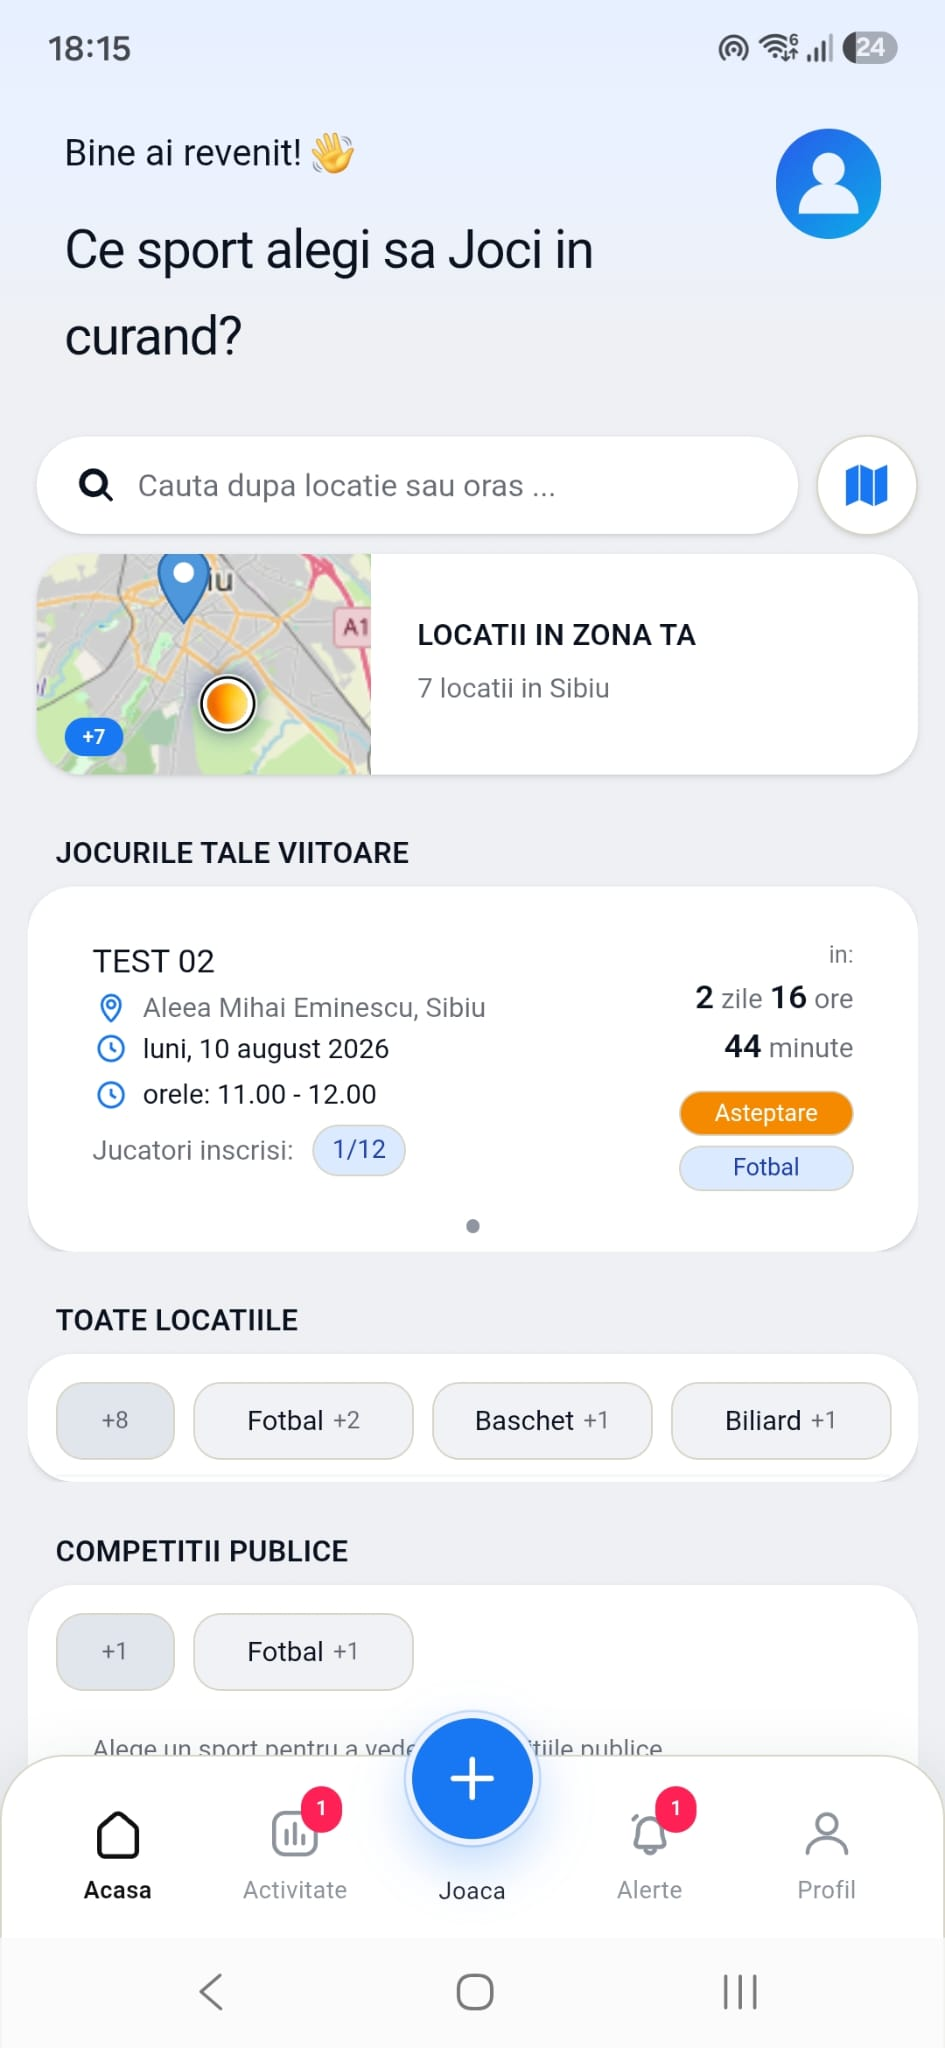
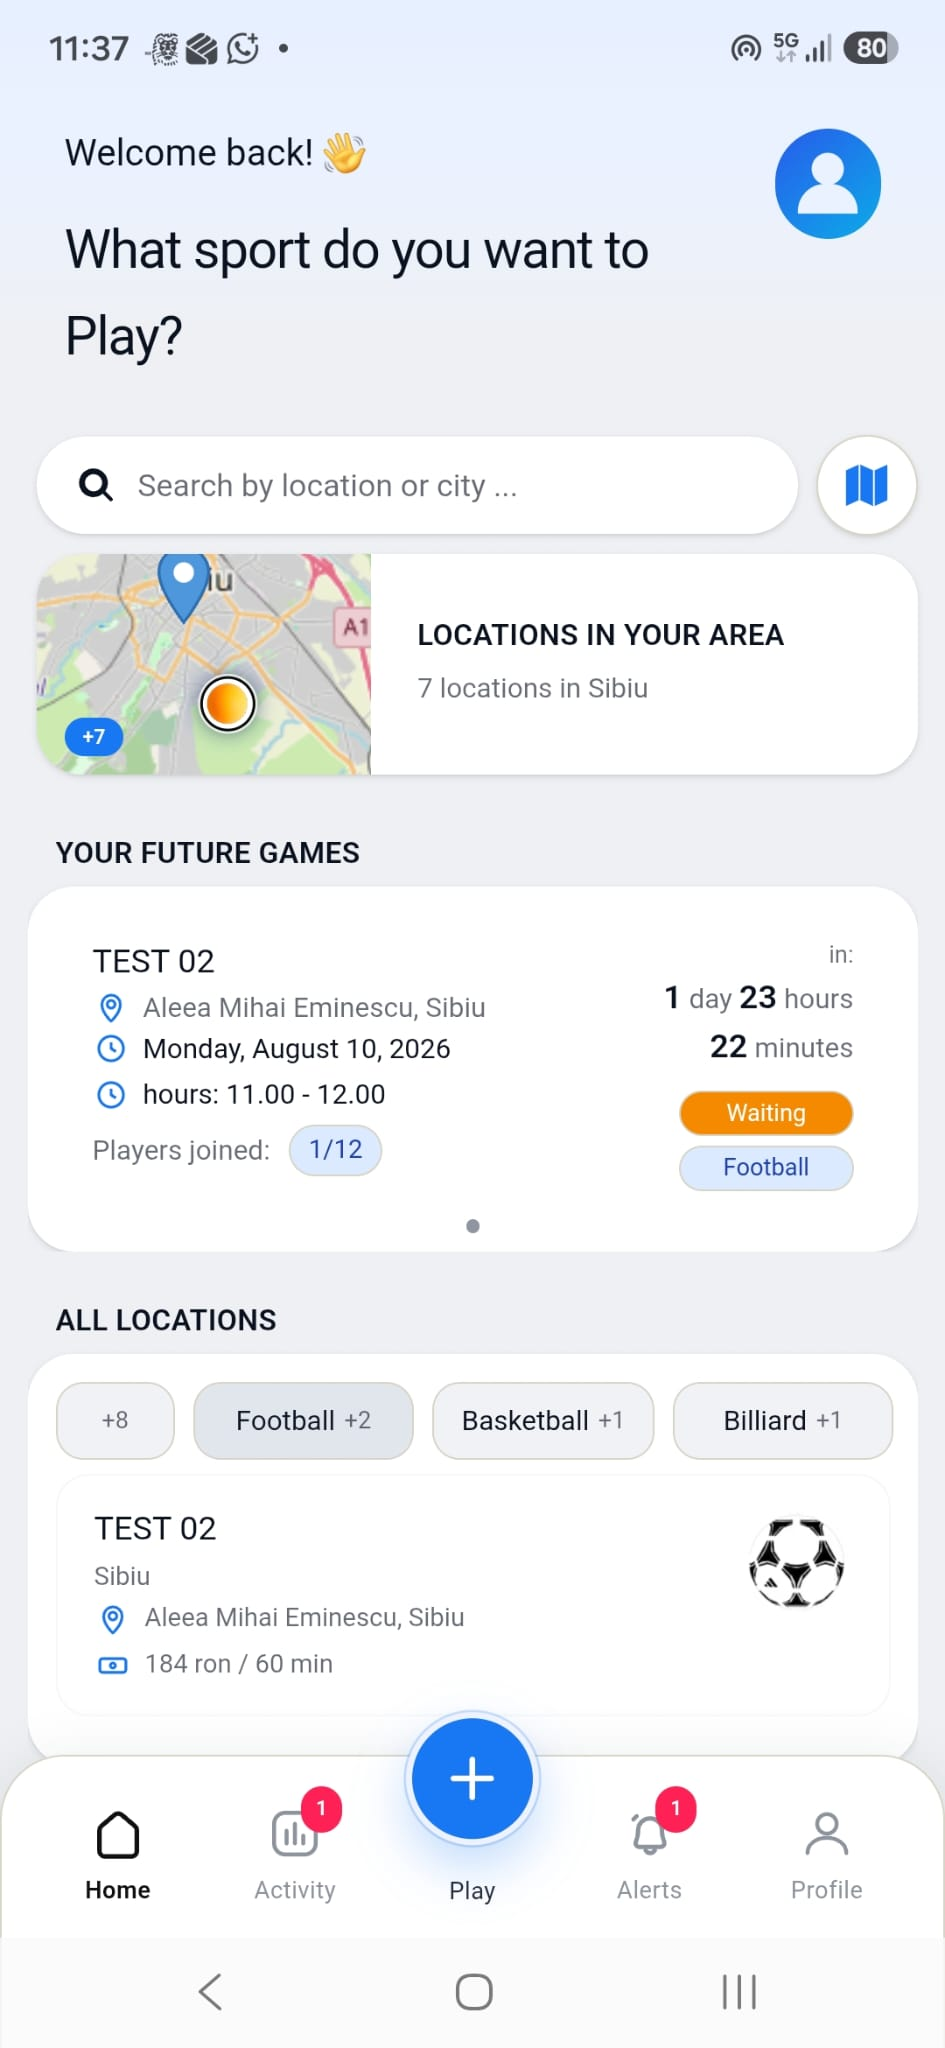
Update homepage app screenshot

diff --git a/app/about/AboutHero.tsx b/app/about/AboutHero.tsx
@@ -98,7 +98,8 @@ function AppHomePreview({ className = "" }: { className?: string }) {
             alt=""
             width={945}
             height={2048}
-            sizes="(min-width: 1280px) 300px, (min-width: 1024px) 270px, 56vw"
+            quality={100}
+            sizes="(min-width: 1536px) 196px, (min-width: 1280px) 184px, (min-width: 1024px) 172px, 56vw"
             className="h-auto w-full"
           />
           <div className="pointer-events-none absolute inset-0 rounded-[28px] ring-1 ring-inset ring-white/18" />
